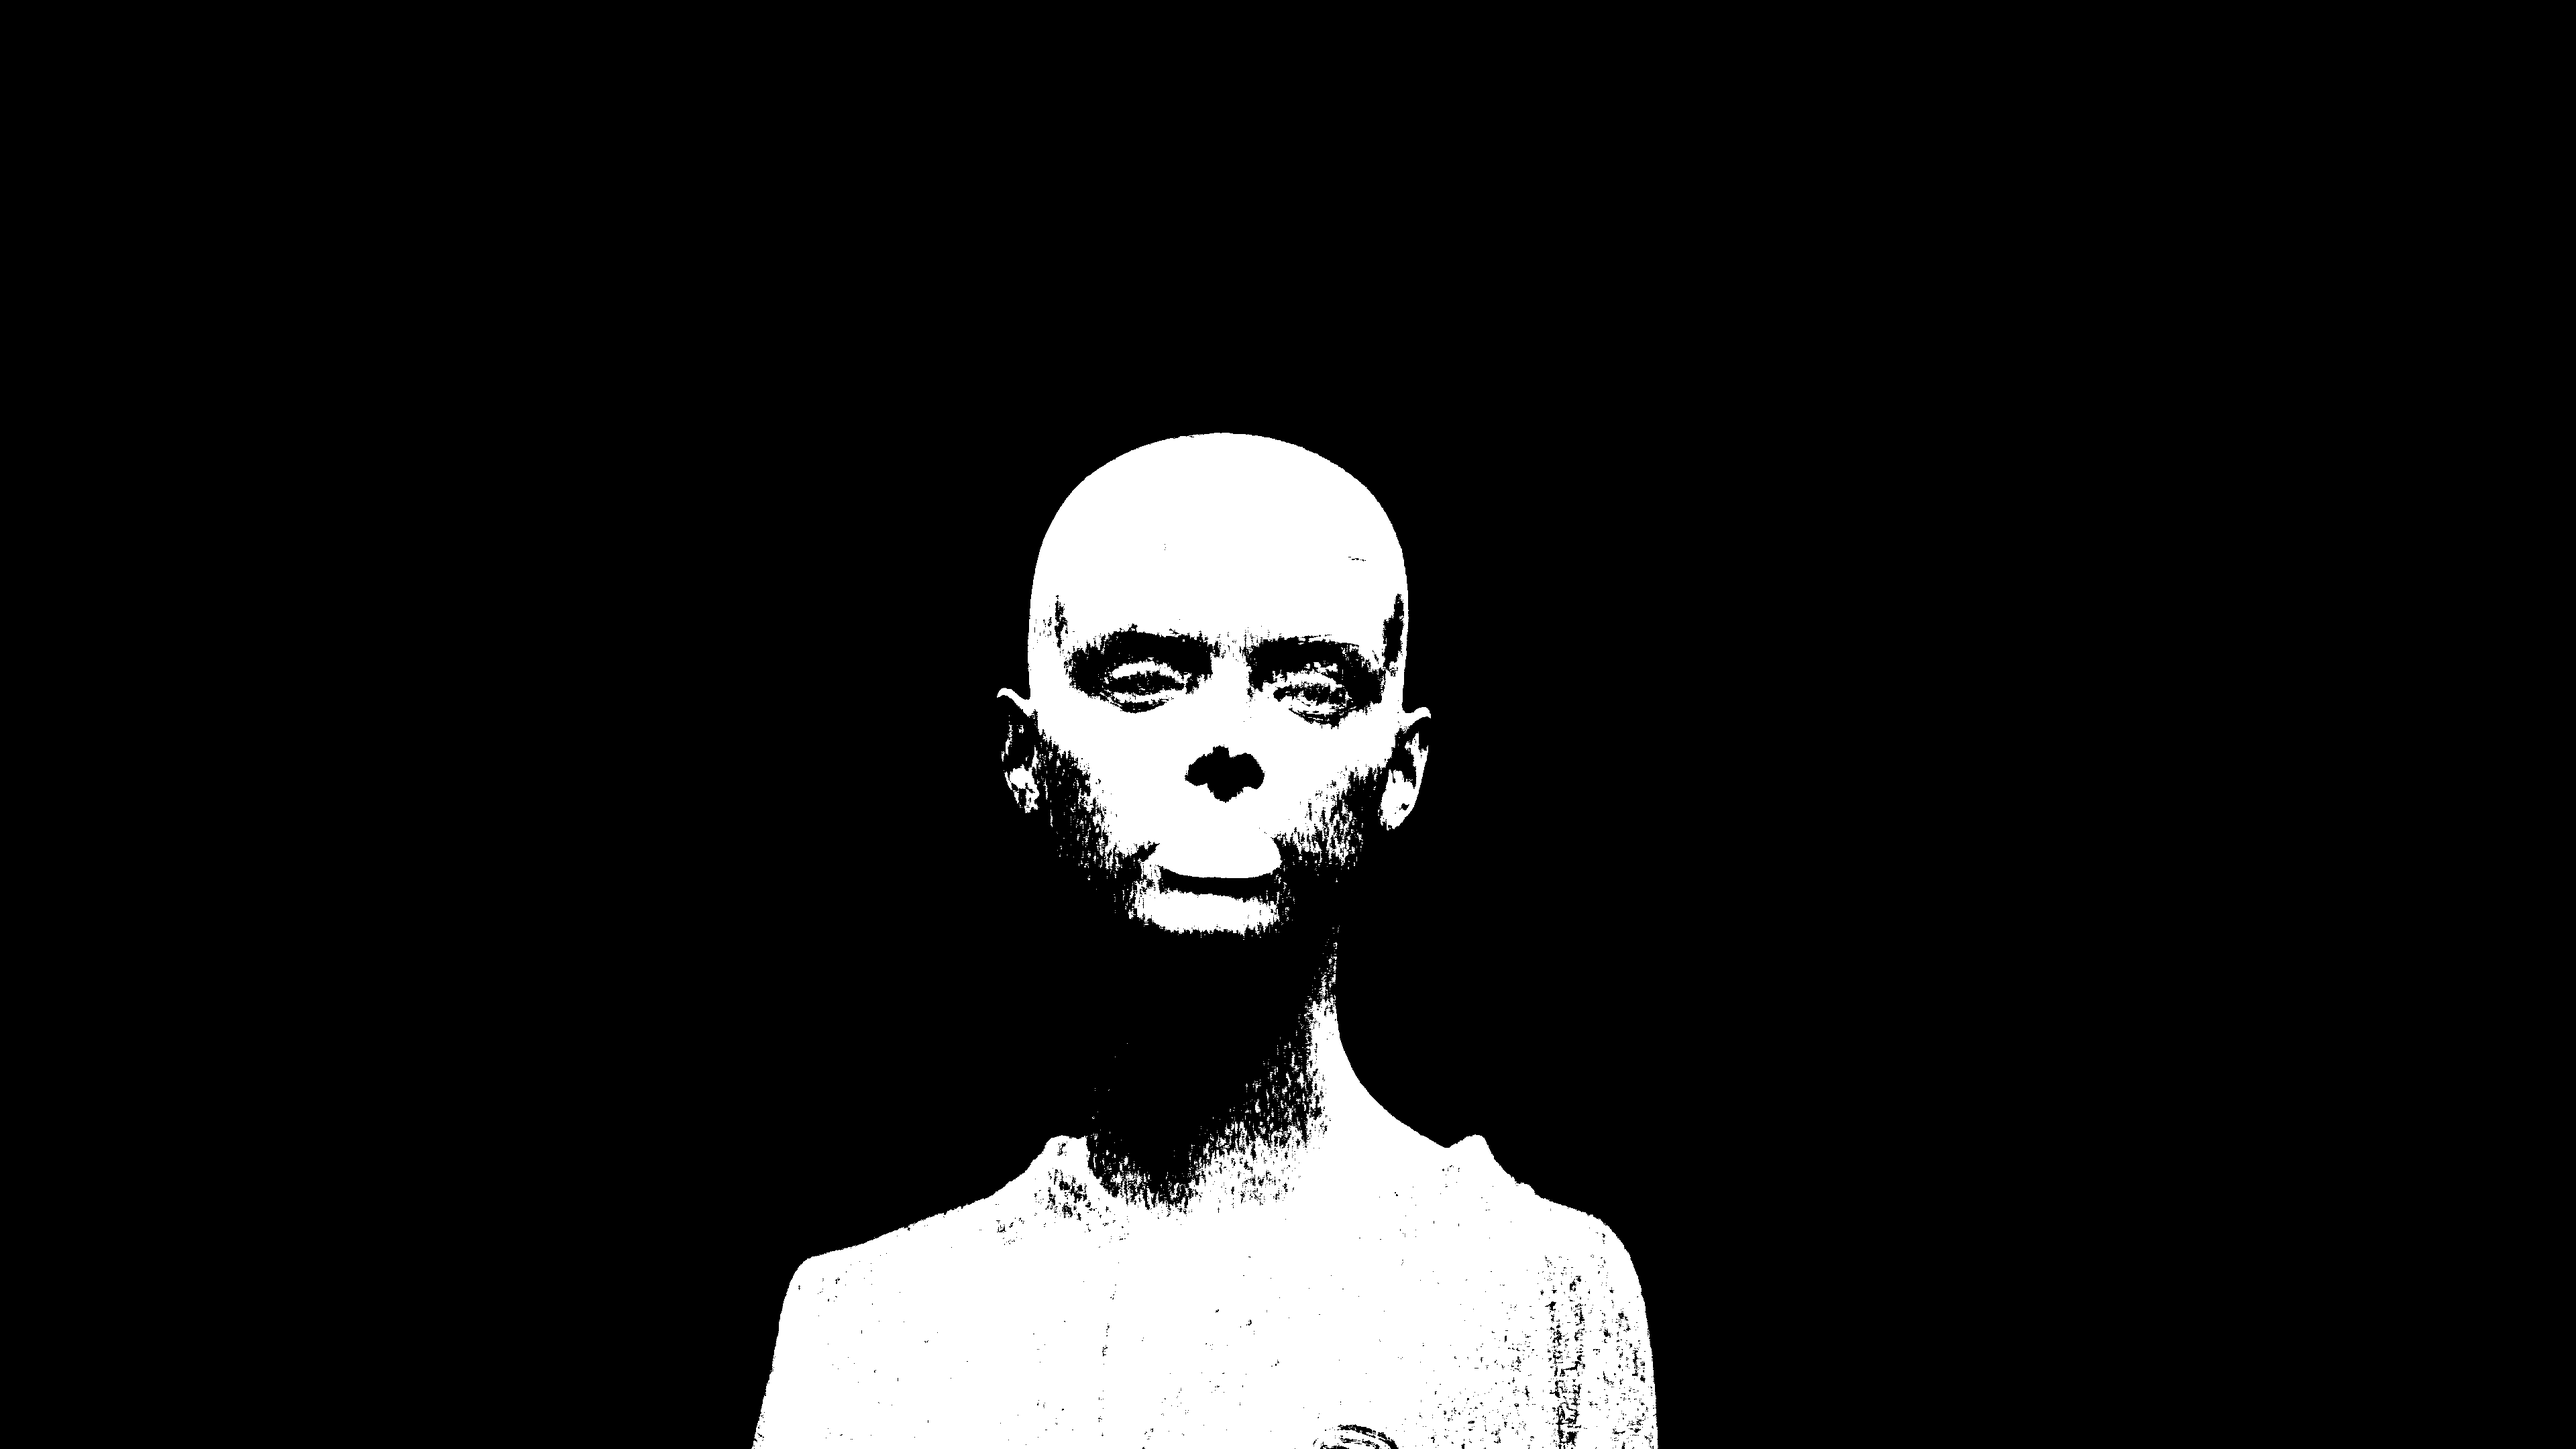
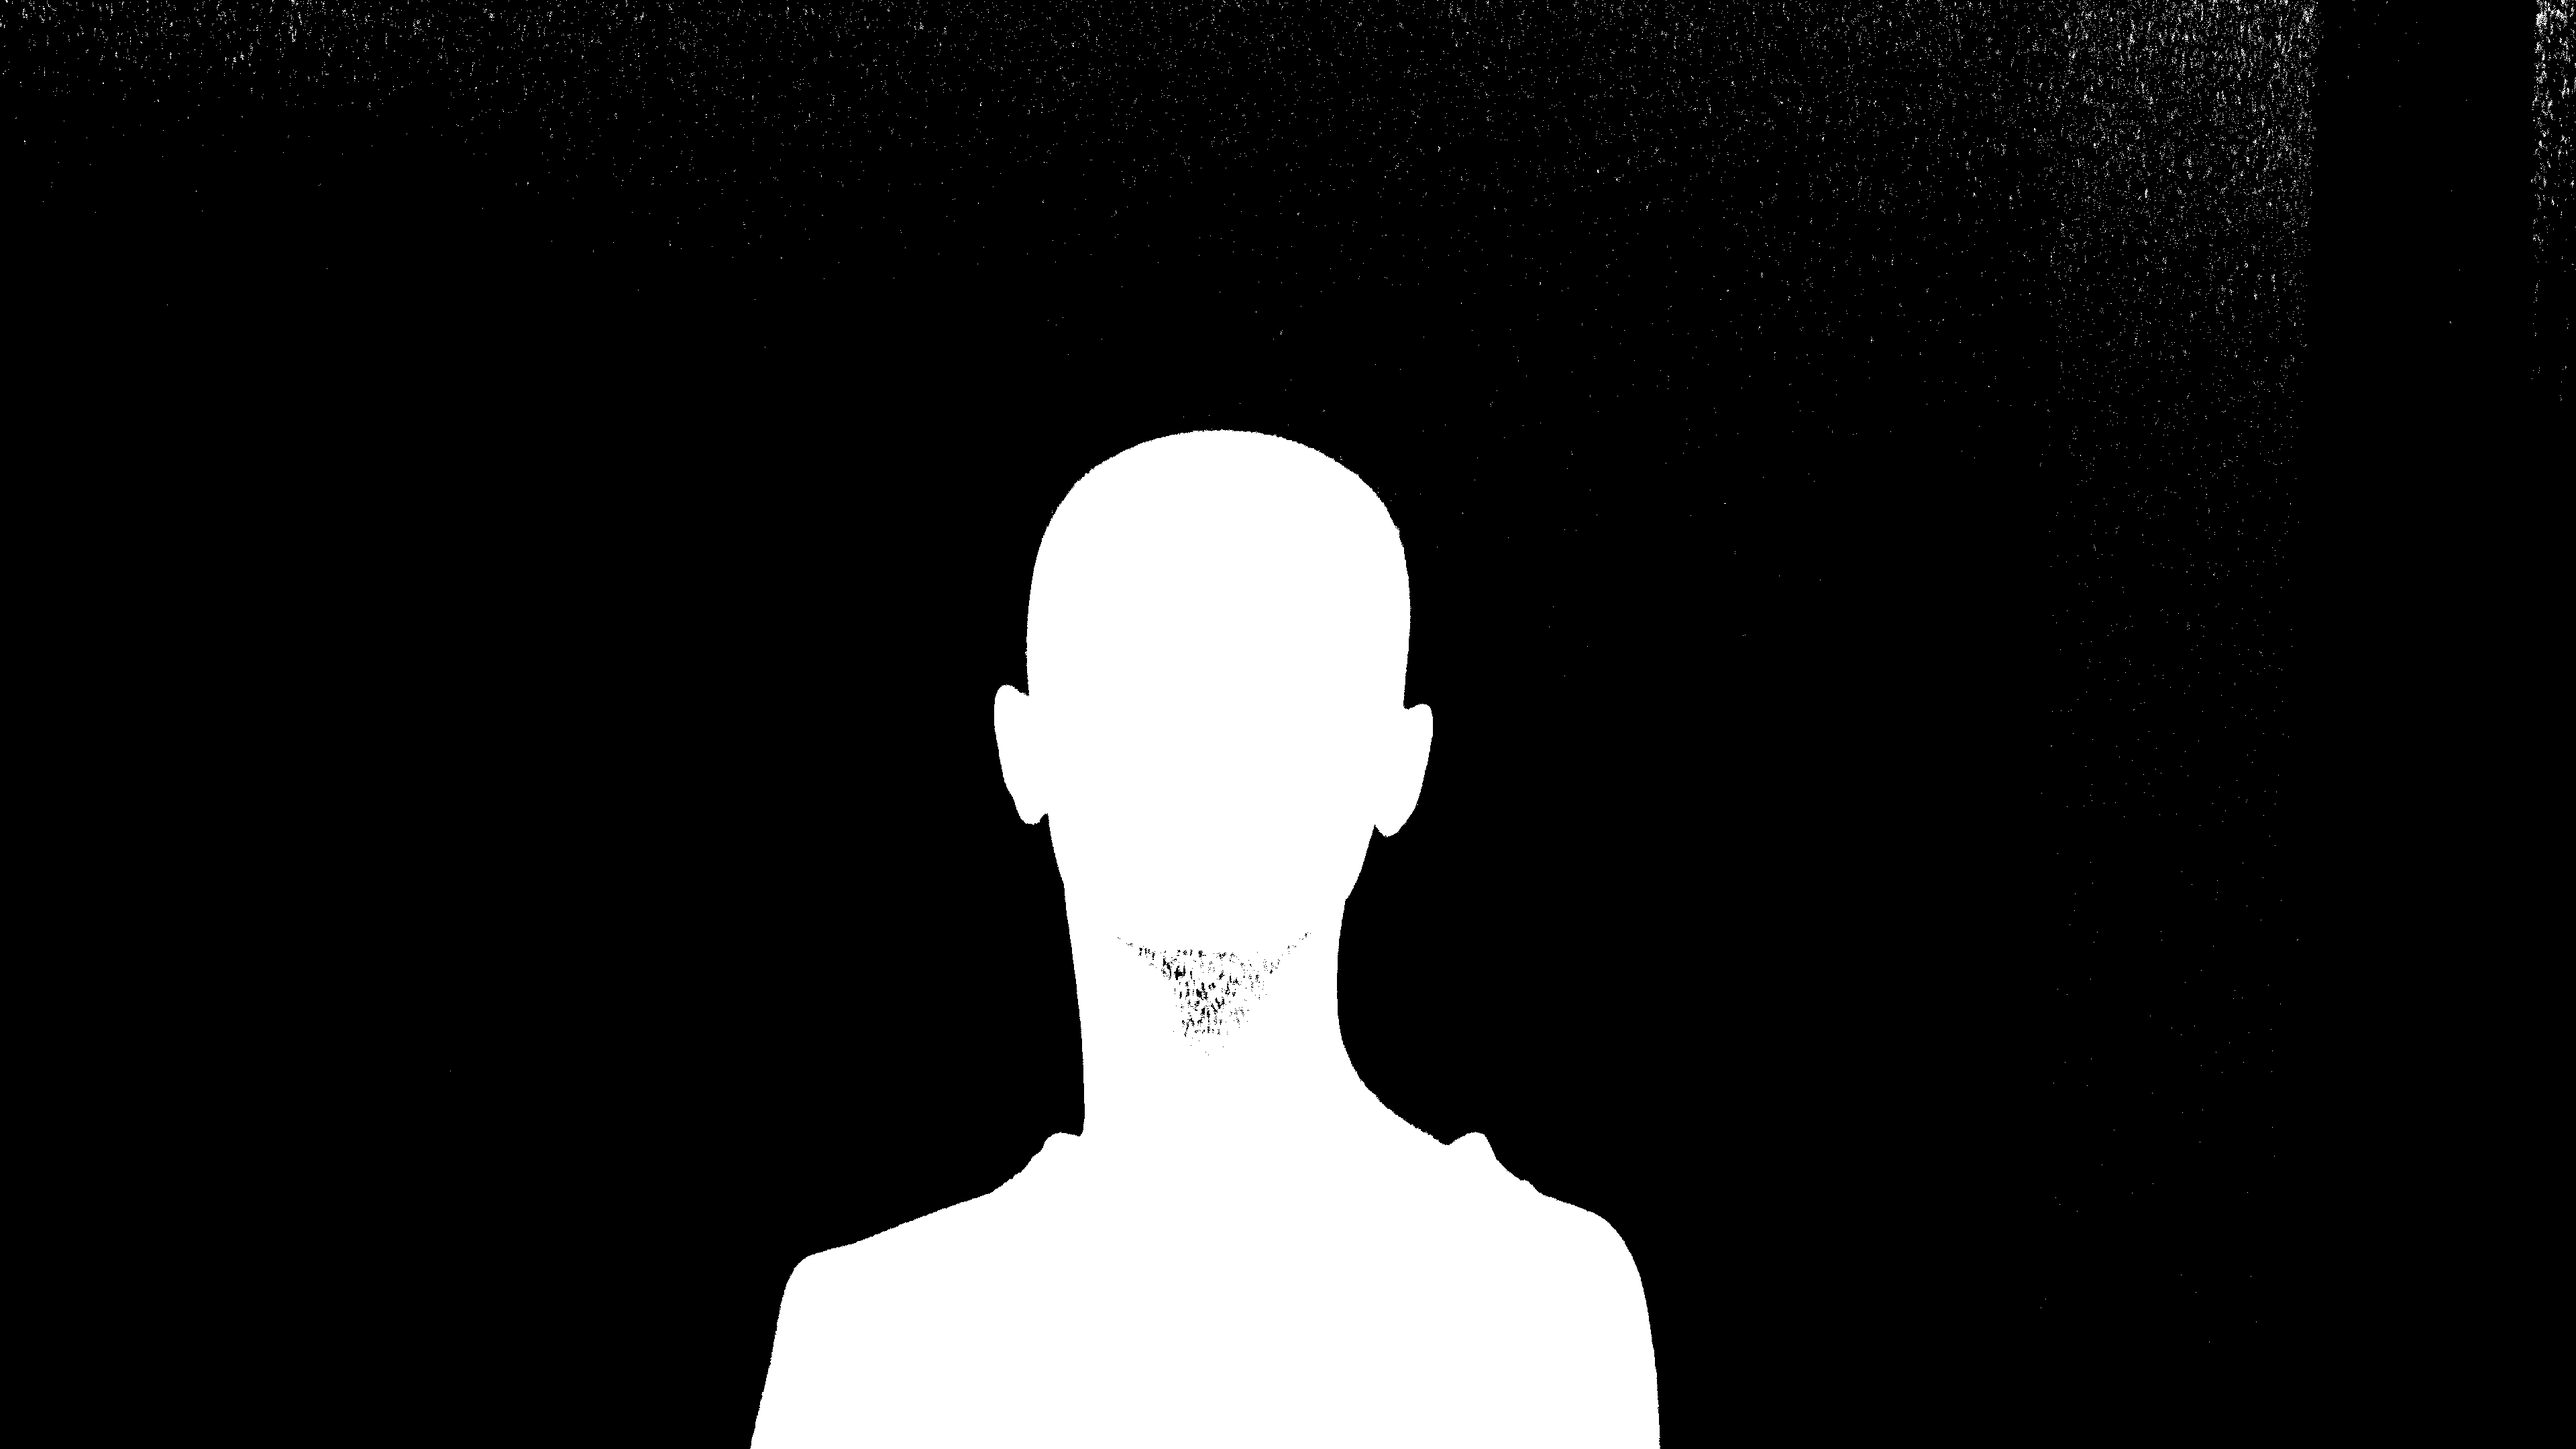
[master] Using histogram to set HSV threshold

diff --git a/mywork.py b/mywork.py
@@ -3,7 +3,7 @@ import numpy as np
 
 def computeHue(r, g, b, delta, colorMax):
     if delta == 0.00:
-        return 0
+        return 0.
 
     if colorMax == r:
         return 60 * (((g - b) / delta) % 6)
@@ -20,7 +20,7 @@ def computeSaturation(delta, colorMax):
 
 
 def RGB2HSV_Pixel(rgbPixel):
-    r, g, b = rgbPixel
+    b, g, r = rgbPixel / 255
     colorMax = max(r, g, b)
     delta = colorMax - min(r, g, b)
     return computeHue(r, g, b, delta, colorMax), computeSaturation(delta, colorMax), colorMax
@@ -34,7 +34,7 @@ def greenFilter(in_img):
             h, s, v = RGB2HSV_Pixel(in_img[y, x])
 
             # Green filter
-            if not (65 <= h <= 180 and s > 0.15 and v > 0.1):
+            if not (95. <= h <= 140. and s > 0.35 and v > 0.25):
                 out_img_gf[y, x] = (255, 255, 255)
 
     return out_img_gf
@@ -43,9 +43,47 @@ def greenFilter(in_img):
 def lowPassSaturationFilter(in_img):
     height, width, _ = in_img.shape
     out_img_lpsf = np.zeros((height, width, 3), dtype=np.ubyte)
+    for y in range(0, height):
+        for x in range(0, width):
+            h, s, v = RGB2HSV_Pixel(in_img[y, x])
+
+            # Saturation filter
+            if s <= 0.15:
+                out_img_lpsf[y, x] = (255, 255, 255)
 
     return out_img_lpsf
 
 
 def computeGreenExtractionMask(in_img, filterParam):
     return filterParam(in_img)
+
+
+def computeGrayImg(in_img, hsvOptions):
+    height, width, _ = in_img.shape
+    out_img_gray = np.zeros((height, width, 3), dtype=np.ubyte)
+    for y in range(0, height):
+        for x in range(0, width):
+            h, s, v = RGB2HSV_Pixel(in_img[y, x])
+
+            if hsvOptions == 0:
+                value = h / 360 * 255
+            elif hsvOptions == 1:
+                value = s * 255
+            elif hsvOptions == 2:
+                value = v * 255
+            else:
+                value = 0
+
+            out_img_gray[y, x] = (value, value, value)
+
+    return out_img_gray
+
+def computeHSVImg(in_img):
+    height, width, _ = in_img.shape
+    out_img_hsv = np.zeros((height, width, 3), dtype=np.float64)
+    for y in range(0, height):
+        for x in range(0, width):
+            out_img_hsv[y, x] = RGB2HSV_Pixel(in_img[y, x])
+
+    return out_img_hsv
+

diff --git a/histogram.py b/histogram.py
@@ -1,0 +1,40 @@
+import matplotlib.pyplot as plt
+import numpy as np
+import cv2
+import sys
+import mywork
+
+if __name__ == '__main__':
+    nbArg = len(sys.argv)
+
+    if nbArg != 3:
+        print('Usage :')
+        print('Programme <Chemin de l\'image d\'entrée (.png)> <valeur HSV a mesurer>')
+        print('\t0 : Teinte\n\t1 : Saturation\n\t2 : Luminosite')
+        exit()
+
+    hsvOption = int(sys.argv[2])
+    if hsvOption < 0 or hsvOption > 2:
+        print('Usage :')
+        print('Programme <Chemin de l\'image d\'entrée (.png)> <valeur HSV a mesurer>')
+        print('\t0 : Teinte\n\t1 : Saturation\n\t2 : Luminosite')
+        exit()
+
+    hsv_img = mywork.computeHSVImg(cv2.imread(sys.argv[1]).astype(np.float64))
+    hist = hsv_img[:, :, hsvOption].ravel()
+
+    hsvParam = 360 if hsvOption == 0 else 100
+    if hsvOption == 0:
+        strHSV = 'teinte'
+    else:
+        hist = hist * 100
+        if hsvOption == 1:
+            strHSV = 'saturation'
+        else:
+            strHSV = 'luminosite'
+
+    plt.hist(hist, range=(0, hsvParam), bins=hsvParam, color='blue', edgecolor='red')
+    plt.xlabel('Valeur de la ' + strHSV)
+    plt.ylabel('Nombre de pixel')
+    plt.title('Frequence de la ' + strHSV)
+    plt.show()

diff --git a/gray_test.py b/gray_test.py
@@ -5,30 +5,6 @@ import os
 import mywork
 
 
-def computeGrayImg(in_img, hsvOptions):
-    height, width, _ = in_img.shape
-    out_img_gray = np.zeros((height, width, 3), dtype=np.ubyte)
-    for y in range(0, height):
-        for x in range(0, width):
-            h, s, v = mywork.RGB2HSV_Pixel(in_img[y, x])
-
-            if hsvOptions == 0:
-                h = h - 30
-                if h < 0:
-                    h = h + 30
-                value = h / 360 * 255
-            elif hsvOptions == 1:
-                value = s * 255
-            elif hsvOptions == 2:
-                value = v * 255
-            else:
-                value = 0
-
-            out_img_gray[y, x] = (value, value, value)
-
-    return out_img_gray
-
-
 if __name__ == '__main__':
     nbArg = len(sys.argv)
 
@@ -42,6 +18,6 @@ if __name__ == '__main__':
 
     hsvOption = int(sys.argv[3]) if nbArg == 4 else 0
 
-    out_img = computeGrayImg(cv2.imread(sys.argv[1]).astype(np.float64), hsvOption)
+    out_img = mywork.computeGrayImg(cv2.imread(sys.argv[1]).astype(np.float64), hsvOption)
     in_filename = os.path.split(os.path.splitext(sys.argv[1])[0])[1]
     cv2.imwrite(sys.argv[2] + '/' + in_filename + '_gray.png', out_img)
